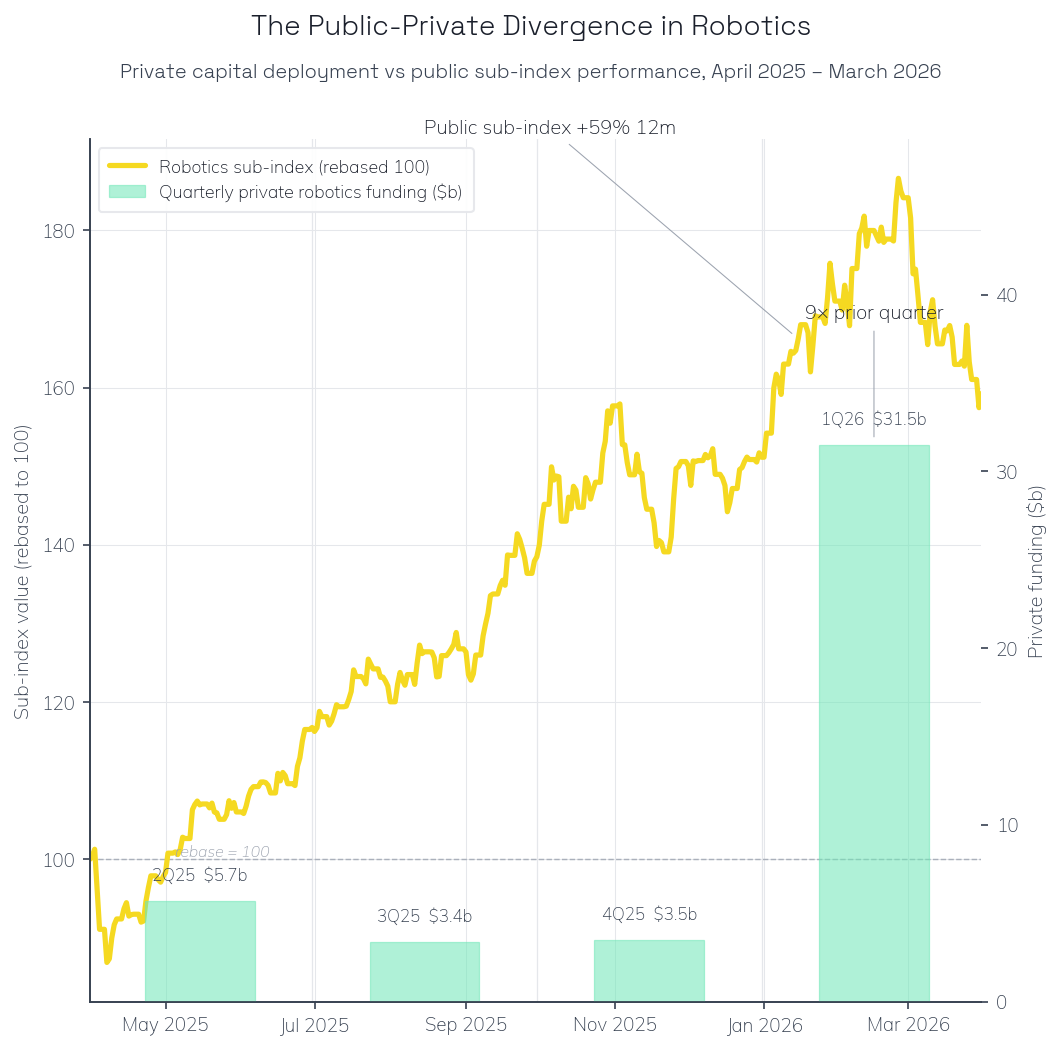
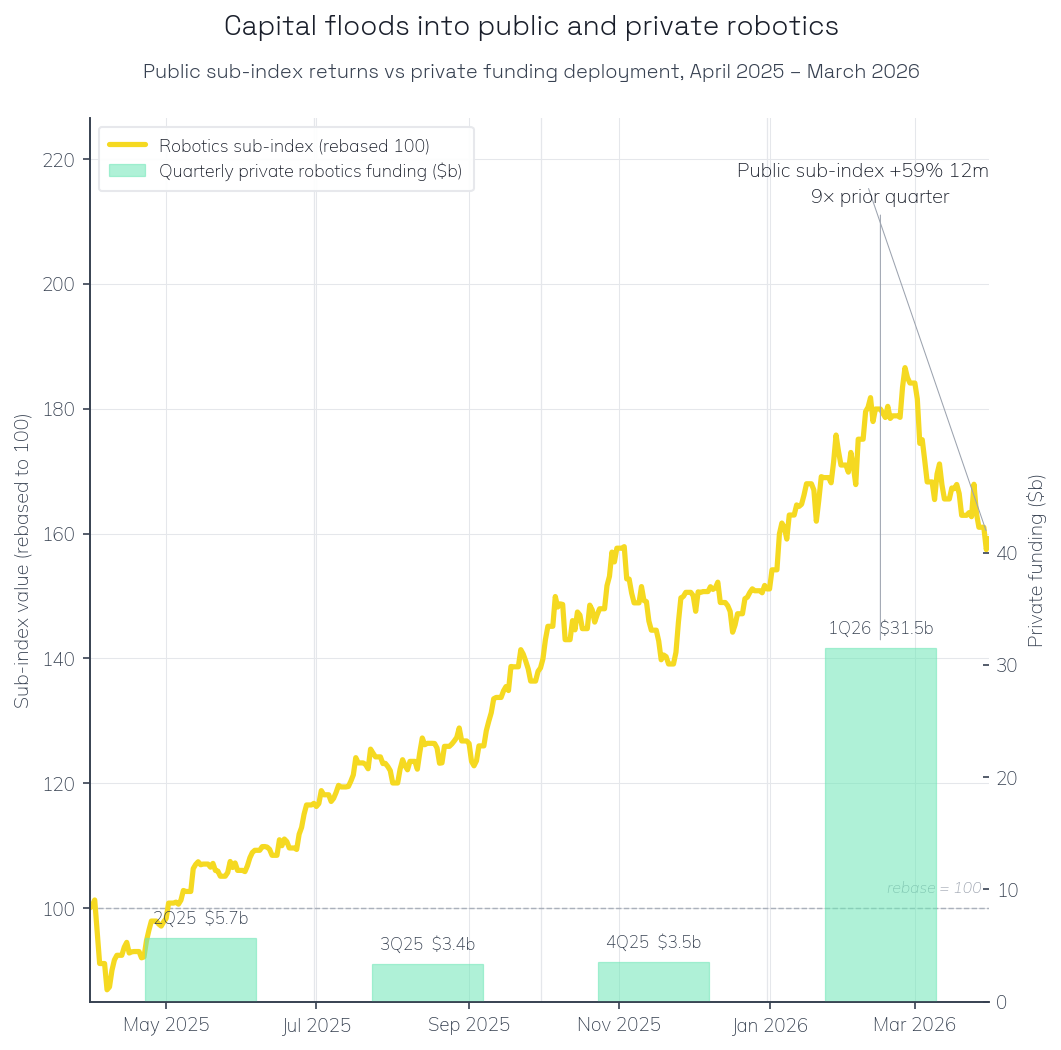
chore(charts): reframe public-private chart under Option A + round-3 layout fixes
Reframe (per data verification — see commit conversation)
---------------------------------------------------------
Source data shows public Robotnik Robotics sub-index returned
+59.21% (and ROBO ETF +32.87%) over the 12-month window. The
earlier "+5.3%" carried over from a stale spec doesn't match the
data. So the chart is no longer a "public falling, private soaring"
divergence — both rose. The story is the magnitude contrast:
quarterly private deployment scaled 9× while the public sub-index
posted a strong but conventional bull-market move.

  Title    "Capital floods into public and private robotics"
  Subtitle "Public sub-index returns vs private funding deployment,
            April 2025 – March 2026"

Layout fixes
------------
1. Public sub-index callout — label sits in clear air above the
   line's peak at the right edge of the chart, with a short
   mostly-vertical leader down to the line's actual endpoint
   (March 2026). Was previously anchored to a mid-trajectory point
   on the line via a long diagonal leader.

2. "9× prior quarter" callout — moved into the top-of-chart
   whitespace, well above the line peak, with a clean vertical
   leader down to the 1Q26 bar top. No longer crosses the yellow
   line's path.

3. 1Q26 bar label — sits just above the bar top in the same
   convention as 2Q25 / 3Q25 / 4Q25. The "9× prior quarter"
   commentary is a separate callout, not the bar label.

4. "rebase = 100" — moved from the LEFT edge (where it was
[…]

diff --git a/scripts/generate_extra_report_figures.py b/scripts/generate_extra_report_figures.py
@@ -523,13 +523,16 @@ def _draw_divergence(figsize, fontscale=1.0):
     bars     = _load_quarterly_funding()
 
     fig, ax1 = plt.subplots(figsize=figsize)
-    # Title + subtitle (drawn as fig.text to match Figures 1-3)
-    fig.text(0.5, 0.965, "The Public-Private Divergence in Robotics",
+    # Title + subtitle. Reframed under Option A: the public sub-index
+    # rose materially in the same window as the private-capital surge,
+    # so the chart is a "both rising" story with the magnitude
+    # contrast (9× quarterly capital deployment) doing the lifting.
+    fig.text(0.5, 0.965, "Capital floods into public and private robotics",
              ha="center", va="top",
              fontproperties=title_font(size=14 * fontscale),
              color=PALETTE.ink)
     fig.text(0.5, 0.920,
-             "Private capital deployment vs public sub-index performance, April 2025 – March 2026",
+             "Public sub-index returns vs private funding deployment, April 2025 – March 2026",
              ha="center", va="top",
              fontproperties=subtitle_font(size=10 * fontscale),
              color=PALETTE.axis)
@@ -565,10 +568,17 @@ def _draw_divergence(figsize, fontscale=1.0):
     ax1.xaxis.set_major_formatter(mdates.DateFormatter("%b %Y"))
     ax1.set_xlim(date(2025, 3, 31), date(2026, 3, 31))
 
-    # Right-axis limit leaves headroom so the 1Q26 bar label fits
-    # above the bar with the callout text clearly clear of the bar
-    # top.
-    ax2.set_ylim(0, max(max(bar_y) * 1.55, 5))
+    # Right-axis limit gives enough headroom for the "9× prior
+    # quarter" callout to sit above the LEFT-axis line peak in clear
+    # whitespace. Explicit yticks at clean 10-step values so the top
+    # tick label reads as a plain integer — the previous draft's
+    # default formatter combined with the spine cap rendered the
+    # topmost tick as "- 40" (the dash being the tick mark).
+    ax2.set_ylim(0, max(max(bar_y) * 1.85, 5))
+    ax2.set_yticks([0, 10, 20, 30, 40])
+    # Tick direction inward so tick marks don't read as a leading
+    # dash on the labels.
+    ax2.tick_params(axis="y", direction="in", length=3)
     # Hide right-axis gridlines (only left axis carries them)
     ax2.grid(False)
 
@@ -590,65 +600,68 @@ def _draw_divergence(figsize, fontscale=1.0):
     else:
         line_return_pct = 0.0
 
-    # The two callouts must not overlap each other. Place the public
-    # sub-index callout to the LEFT of the Q1 bar (above the line's
-    # rising right-side path) and the Q1 bar callout DIRECTLY above
-    # the Q1 bar. Both use thin grey leaders — never the line styling
-    # (which would read as a trend, not a callout).
+    # Two callouts in non-overlapping air columns:
+    #   - Public sub-index callout: anchors its leader at the line's
+    #     final point (March 2026), label sits above the line on the
+    #     left side of the chart.
+    #   - "9× prior quarter" callout: sits well ABOVE the line's peak
+    #     (line peaks ~187 around late Feb), in clear whitespace, with
+    #     a leader to the Q1 bar top. Does not overlap the line.
     from datetime import timedelta
     q1 = bars[-1]
-    # Multiplier vs the immediately preceding quarter (4Q25), per spec.
     prior_q = bars[-2][1] if len(bars) > 1 else q1[1]
     multiplier = q1[1] / prior_q if prior_q > 0 else 0
 
-    # Public sub-index callout — anchored over the line at ~mid-Jan,
-    # well left of the Q1 bar so the two callouts share no horizontal
-    # space.
+    # Public sub-index callout — label placed ABOVE the line's PEAK
+    # at the right edge of the chart, with a short, mostly-vertical
+    # leader down to the line's actual endpoint (March 2026).
     if robotics:
         end_d, end_v = robotics[-1]
-        # Lookup the value at the callout anchor date so the leader
-        # touches the actual line, not floating space.
-        anchor_d = date(2026, 1, 15)
-        anchor_v = end_v
-        for d, v in robotics:
-            if d <= anchor_d:
-                anchor_v = v
-            else:
-                break
-        # Label sits well above the line at the upper-left of the chart
-        line_max = max(v for _, v in robotics)
-        callout_y = line_max + (line_max - 100) * 0.06
+        line_max_top = max(v for _, v in robotics)
         ax1.annotate(f"Public sub-index +{line_return_pct:.0f}% 12m",
-                     xy=(anchor_d, anchor_v),
-                     xytext=(date(2025, 8, 15), callout_y),
-                     ha="left", va="bottom",
+                     xy=(end_d, end_v),
+                     xytext=(end_d, line_max_top + 30),
+                     ha="right", va="bottom",
                      fontsize=10 * fontscale, fontweight="bold",
                      color=PALETTE.ink,
                      arrowprops=dict(arrowstyle="-", color="#9CA3AF", lw=0.5,
                                      shrinkA=2, shrinkB=4),
                      zorder=10)
 
-    # Q1 2026 bar callout — directly above the bar with a vertical
-    # leader. Stays in its own air column so it can never collide
-    # with the sub-index callout.
-    # Avoid repeating "$31.5b" — that figure is already on the bar
-    # label. Callout adds the magnitude commentary only.
-    callout_q1_y = q1[1] + max(bar_y) * 0.22
+    # Set both axis ylims explicitly so the geometry is predictable:
+    #   ax1 (line, left axis): 85 → line_max + 40, leaving clear
+    #                          whitespace above the line peak.
+    #   ax2 (bars, right axis): 0 → max_bar * 2.5, pulling the bars
+    #                           into the lower 40% of the chart so
+    #                           the upper-right air column is free
+    #                           for the 9× callout.
+    if robotics:
+        line_max = max(v for _, v in robotics)
+        ax1.set_ylim(85, line_max + 40)
+    bar_max_visible = max(bar_y) * 2.5
+    ax2.set_ylim(0, bar_max_visible)
+
+    # "9× prior quarter" callout sits in the upper-right air column.
+    # Coordinates on ax2 (bars). At ax2 y = bar_max_visible * 0.92
+    # the callout is in the top 8% of the chart, well above the line
+    # peak which lives in the upper-third in ax1's range.
+    callout_q1_y = bar_max_visible * 0.92
     ax2.annotate(f"{multiplier:.0f}× prior quarter",
                  xy=(q1[0], q1[1]),
                  xytext=(q1[0], callout_q1_y),
-                 ha="center", va="bottom",
+                 ha="center", va="top",
                  fontsize=10 * fontscale, fontweight="bold",
                  color=PALETTE.ink,
                  arrowprops=dict(arrowstyle="-", color="#9CA3AF", lw=0.5,
                                  shrinkA=2, shrinkB=4),
                  zorder=10)
 
-    # Baseline label on the rebase=100 dashed reference line — sits at
-    # the LEFT of the chart on the line itself, well clear of the
-    # right-axis ticks.
-    ax1.text(date(2025, 5, 5), 100, "rebase = 100",
-             ha="left", va="bottom",
+    # Baseline label — right side, just above the dashed line. The
+    # Q1 bar would otherwise sit on top of it; with bar ylim now
+    # 0→79ish the bar top is well below 100 visually so the label
+    # at left-axis y=102 is clear.
+    ax1.text(date(2026, 3, 28), 102, "rebase = 100",
+             ha="right", va="bottom",
              fontsize=8 * fontscale, color="#9CA3AF",
              style="italic", family="Mulish",
              zorder=3)
